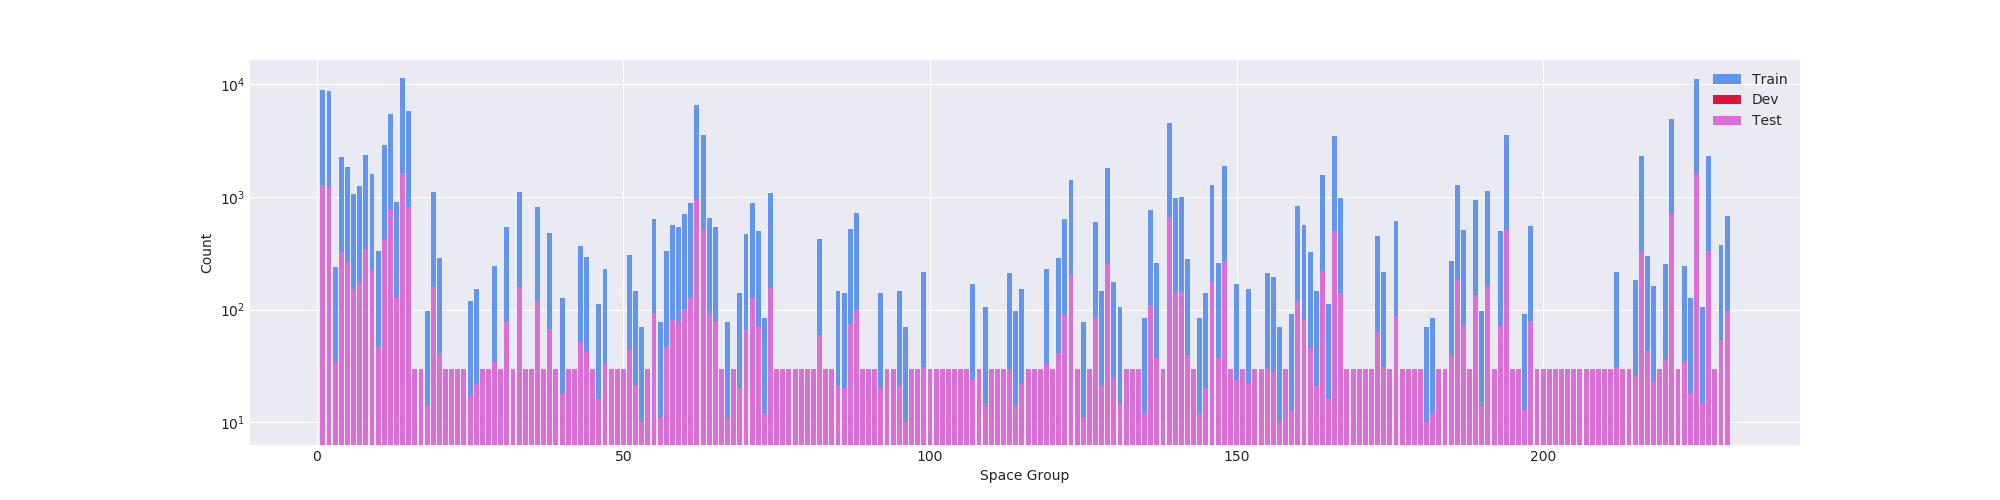
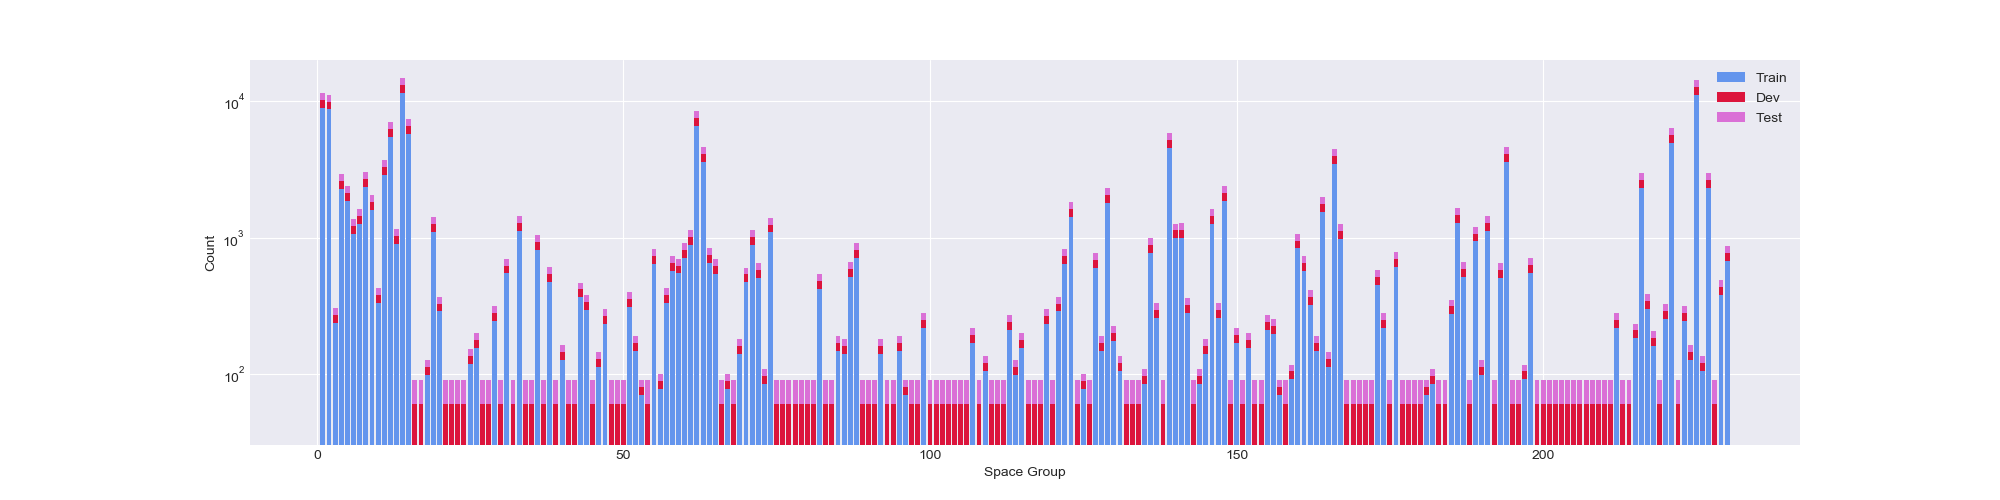
stacking bar plots

diff --git a/distributions/functions/find_all_distribution.py b/distributions/functions/find_all_distribution.py
@@ -70,8 +70,14 @@ def visualize_all_bar(df,headers,colors,file_name='all_dist_hist',ylim=None):
     plt.style.use('seaborn-darkgrid')
     if not ylim is None:
         plt.ylim(ylim)
+    prevTop = np.zeros(230)
+    inspectPix = 49
+    print("printout for pixel {}".format(inspectPix))
     for header,color in zip(headers,colors):
-        plt.bar(x,df[header],color=color,label=header,log=True)
+        plt.bar(x,df[header],bottom=prevTop,color=color,label=header,log=True)
+        #breakpoint()
+        print("{} bottom: {}, value: {}".format(header, prevTop[inspectPix], df[header][inspectPix]))
+        prevTop += df[header]
     plt.legend()
     plt.title=("Distribution of Space Groups in Datasets")
     plt.xlabel('Space Group')
@@ -109,10 +115,11 @@ def visualize_all(df,headers,colors,file_name='all_distribution',ylim=None):
     plt.savefig('{}.png'.format(file_name))
 
 if __name__ == '__main__':
-     files = ['train_redist.json', 'dev_redist.json', 'test_redist.json']
-     arrs = [convert_JSON_to_arr(file) for file in files]
-     headers = ['Train', 'Dev', 'Test']
-     colors = ['cornflowerblue','crimson','orchid']
-     df = create_df(headers,arrs)
-     visualize_all_bar(df,headers,colors,file_name='distributions_bar_log')
+    #files = ['../dataframes/estDistTrain.json', '../dataframes/estDistDev.json', '../dataframes/estDistTest.json']
+    files = ['train_redist.json', 'dev_redist.json', 'test_redist.json']
+    arrs = [convert_JSON_to_arr(file) for file in files]
+    headers = ['Train', 'Dev', 'Test']
+    colors = ['cornflowerblue','crimson','orchid']
+    df = create_df(headers,arrs)
+    visualize_all_bar(df,headers,colors,file_name='distributions_bar_log')
     
